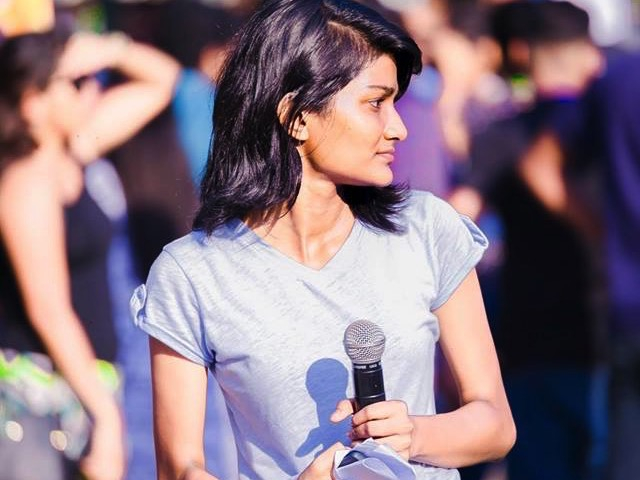
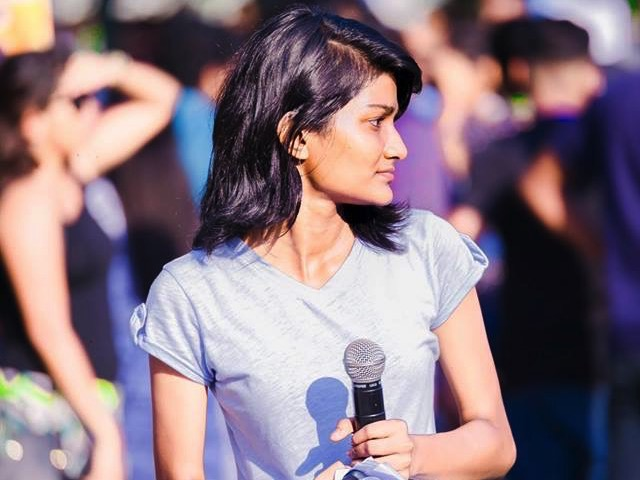
Edits

diff --git a/index.html b/index.html
@@ -88,15 +88,7 @@ http://www.tooplate.com/view/2085-neuron
                 <br>
                 <br>
                 <br>
-                <br>
-                 <br>
-                <br>
-                <br>
-                <br>   
-                 <br>
-                <br>
-                <br>
-                <br>   
+                  
                     <h1>Sudhara Karagampitiya</h1>
                     <h3>-Business Analyst-</h3>
                     

diff --git a/css/style.css b/css/style.css
@@ -282,7 +282,7 @@ a:hover, a:active, a:focus {
 }
 
 .main-home {
-  background: url('../images/home-bg.jpg') no-repeat;
+  background: url('../images/1.png') no-repeat;
   height: 100vh;
 }
 
@@ -291,7 +291,7 @@ a:hover, a:active, a:focus {
 }
 
 .main-mybio {
-  background: url('../images/compere.png') no-repeat;
+  background: url('../images/compere.jpg') no-repeat;
 }
 .main-lseg {
   background: url('../images/mit.jpg') no-repeat;
